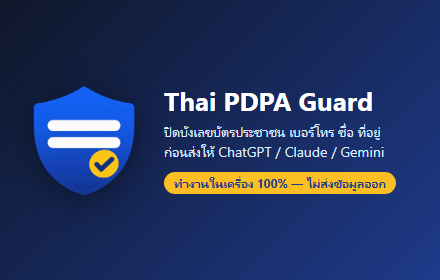
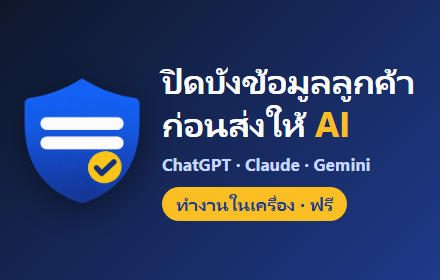
Readable promo tile and short description that names all three AI sites
- Promo tile 440x280: larger benefit headline, drop small text that was unreadable at search-card size
- extDesc th/en mention ChatGPT, Claude and Gemini and the unmask step (116 / 130 chars, limit 132)

Changed region(s): [[0.3545, 0.2286, 0.9455, 0.8], [0.0295, 0.2857, 0.325, 0.7429]]

diff --git a/store/promo-440x280.html b/store/promo-440x280.html
@@ -5,22 +5,23 @@
 <style>
   html, body { margin: 0; width: 440px; height: 280px; overflow: hidden; }
   body {
-    font-family: "Segoe UI", "Noto Sans Thai", "Leelawadee UI", system-ui, sans-serif;
+    font-family: "Leelawadee UI", "Noto Sans Thai", "Segoe UI", system-ui, sans-serif;
     background: linear-gradient(135deg, #0f172a 0%, #1e3a8a 100%);
-    color: #fff; display: flex; align-items: center; padding: 0 28px; box-sizing: border-box; gap: 24px;
+    color: #fff; display: flex; align-items: center; padding: 0 22px 0 18px; box-sizing: border-box; gap: 16px;
   }
-  img { width: 112px; height: 112px; flex: none; filter: drop-shadow(0 6px 16px rgba(0,0,0,.4)); }
-  h1 { font-size: 26px; margin: 0 0 6px; line-height: 1.15; }
-  p { margin: 0; font-size: 14px; line-height: 1.45; color: #dbeafe; }
-  .tag { display: inline-block; margin-top: 10px; padding: 3px 10px; border-radius: 999px; background: #fbbf24; color: #1e3a8a; font-weight: 700; font-size: 12px; }
+  img { width: 128px; height: 128px; flex: none; filter: drop-shadow(0 6px 16px rgba(0,0,0,.45)); }
+  h1 { font-size: 35px; margin: 0; line-height: 1.22; font-weight: 700; letter-spacing: -.3px; }
+  h1 em { font-style: normal; color: #fbbf24; }
+  .sites { margin: 8px 0 0; font-size: 17px; color: #c7d7fe; font-weight: 600; }
+  .tag { display: inline-block; margin-top: 12px; padding: 5px 14px; border-radius: 999px; background: #fbbf24; color: #1e3a8a; font-weight: 700; font-size: 18px; }
 </style>
 </head>
 <body>
   <img src="icon-source.png" alt="">
   <div>
-    <h1>Thai PDPA Guard</h1>
-    <p>ปิดบังเลขบัตรประชาชน เบอร์โทร ชื่อ ที่อยู่<br>ก่อนส่งให้ ChatGPT / Claude / Gemini</p>
-    <span class="tag">ทำงานในเครื่อง 100% — ไม่ส่งข้อมูลออก</span>
+    <h1>ปิดบังข้อมูลลูกค้า<br>ก่อนส่งให้ <em>AI</em></h1>
+    <div class="sites">ChatGPT · Claude · Gemini</div>
+    <span class="tag">ทำงานในเครื่อง · ฟรี</span>
   </div>
 </body>
 </html>

diff --git a/store/LISTING.md b/store/LISTING.md
@@ -12,14 +12,14 @@ Thai PDPA Guard — ปิดบังข้อมูลส่วนบุคค
 
 ## คำอธิบายสั้น (Summary) — ≤ 132 ตัวอักษร
 
-ไทย (98 ตัวอักษร):
+ไทย (116 ตัวอักษร):
 ```
-ตรวจจับเลขบัตรประชาชน เบอร์โทร ชื่อ ที่อยู่แบบไทย แล้วปิดบังก่อนส่งให้ ChatGPT ทำงานในเครื่อง 100%
+ปิดบังเลขบัตรประชาชน ชื่อ เบอร์ ที่อยู่ ก่อนส่งให้ ChatGPT, Claude, Gemini แล้วถอดกลับในคำตอบให้ ทำงานในเครื่อง 100%
 ```
 
-English (111 chars):
+English (130 chars):
 ```
-Detects Thai ID numbers, phones, names and addresses and masks them before you send to ChatGPT. 100% on-device.
+Masks Thai ID numbers, names, phones and addresses before you send to ChatGPT, Claude or Gemini, then restores replies. On-device.
 ```
 
 ## หมวดหมู่ (Category)
